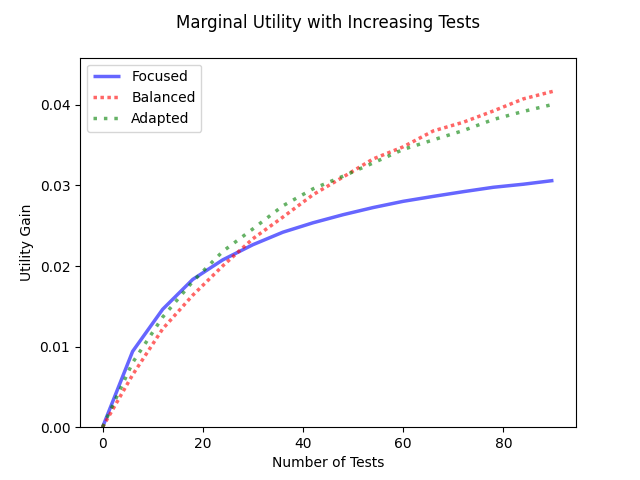
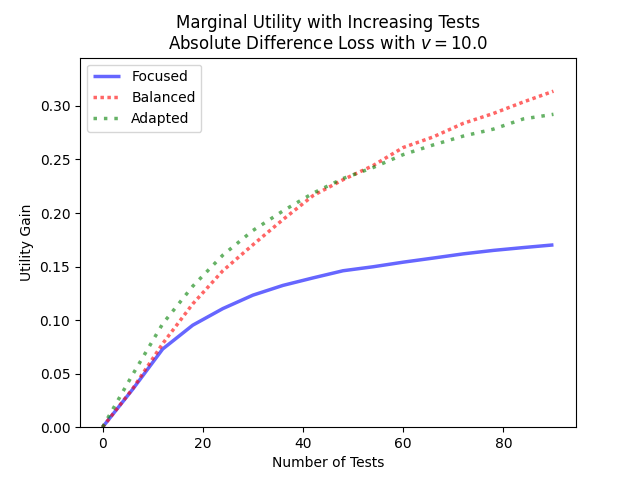
playing w example

diff --git a/bayesianexperimentation/bayesianexperimentaldesign.py b/bayesianexperimentation/bayesianexperimentaldesign.py
@@ -2109,10 +2109,41 @@ def exampleSCscratchForAlgDebug():
     return
 
 def exampleSupplyChainForPaper():
-    N = np.array([[6, 9], [10, 5], [2, 13]])
+
+
+    '''
+    1) N = np.array([[8, 7], [9, 6], [2, 13]])
+    Y = np.array([[3, 0], [4, 1], [0, 0]])
+
+    2) N = np.array([[10, 5], [9, 6], [2, 13]])
+    Y = np.array([[3, 0], [3, 2], [0, 0]]) DEF NOT
+
+    3) N = np.array([[10, 5], [11, 4], [2, 13]])
+    Y = np.array([[3, 0], [4, 1], [0, 0]]) DEF NOT
+
+    4) N = np.array([[5, 10], [8, 7], [3, 12]])
+    Y = np.array([[2, 0], [4, 1], [0, 0]])
+
+    5) N = np.array([[7, 8], [6, 4], [3, 12]])
+    Y = np.array([[3, 0], [3, 1], [0, 0]])
+
+    6) N = np.array([[6, 9], [5, 5], [3, 12]])
+    Y = np.array([[3, 0], [4, 1], [0, 0]]) GOOD ONE; USING THIS 12/30/22
+
+    7) N = np.array([[6, 9], [4, 6], [2, 13]])
+    Y = np.array([[3, 0], [2, 1], [0, 0]]) NOPE
+
+    8) N = np.array([[5, 10], [5, 5], [3, 12]])
+    Y = np.array([[2, 0], [4, 1], [0, 0]]) MAYBE
+
+    9) N = np.array([[8, 7], [5, 5], [3, 12]])
+    Y = np.array([[3, 0], [4, 1], [0, 0]])
+
+    '''
+    N = np.array([[6, 9], [5, 5], [3, 12]])
     Y = np.array([[3, 0], [4, 1], [0, 0]])
     (numTN, numSN) = N.shape
-    s, r = 1., 1.
+    s, r = 0.9, 0.95
     scDict = util.generateRandDataDict(numImp=numSN, numOut=numTN, diagSens=s, diagSpec=r,
                                        numSamples=0, dataType='Tracked', randSeed=2)
     scDict['diagSens'], scDict['diagSpec'] = s, r
@@ -2163,7 +2194,7 @@ def exampleSupplyChainForPaper():
          'numPostSamples': numdrawstouse})
     margUtilArr = GetMargUtilForDesigns([design1,design2,design3],scDictTemp, testMax, testInt, lossDict,
                                         utilDict, printUpdate=True)
-    plotMargUtil(margUtilArr, testMax, testInt, colors=['blue','red','green'],labels=['Focused', 'Balanced', 'Adapted'])
+    plotMargUtil(margUtilArr, testMax, testInt, colors=['blue','red','green'],labels=['Focused', 'Balanced', 'Adapted'],titleStr='Baseline')
     '''
     margUtilArr = np.array([[0.        , 0.01852929, 0.02953051, 0.03632656, 0.04097865,
         0.04483184, 0.04778626, 0.04974943, 0.05181481, 0.05342801,
@@ -2180,11 +2211,12 @@ def exampleSupplyChainForPaper():
     '''
 
     ### CHANGE LOSS PARAMETERS RUNS ###
-    lossDict['scoreDict'].update({'underEstWt':5.})
+    ### CHANGE SCORE
+    lossDict['scoreDict'].update({'underEstWt':0.1})
     margUtilArr = GetMargUtilForDesigns([design1, design2, design3], scDictTemp, testMax, testInt, lossDict,
                                         utilDict, printUpdate=True)
     plotMargUtil(margUtilArr, testMax, testInt, colors=['blue', 'red', 'green'],
-                 labels=['Focused', 'Balanced', 'Adapted'])
+                 labels=['Focused', 'Balanced', 'Adapted'],titleStr='Absolute Difference Loss with $v=0.1$')
     '''
     margUtilArr = np.array([[0.        , 0.03442348, 0.05774904, 0.07150046, 0.08239403,
         0.08999229, 0.09596104, 0.10124705, 0.10546559, 0.10948336,
@@ -2201,27 +2233,27 @@ def exampleSupplyChainForPaper():
      plotMargUtil(margUtilArr, testMax, testInt, colors=['blue', 'red', 'green'],
                  labels=['Focused', 'Balanced', 'Adapted'],titleStr='AbsDiff Loss with $v=5$')
     '''
-    ### CHANGE LOSS
-    lossDict['scoreDict'].update({'underEstWt': 0.2})
+    ### CHANGE SCORE
+    lossDict['scoreDict'].update({'underEstWt': 10})
     margUtilArr = GetMargUtilForDesigns([design1, design2, design3], scDictTemp, testMax, testInt, lossDict,
                                         utilDict, printUpdate=True)
     plotMargUtil(margUtilArr, testMax, testInt, colors=['blue', 'red', 'green'],
-                 labels=['Focused', 'Balanced', 'Adapted'])
+                 labels=['Focused', 'Balanced', 'Adapted'],titleStr='Absolute Difference Loss with $v=10.0$')
     '''
-    margUtilArr = np.array([[0.        , 0.0061618 , 0.00951152, 0.01180287, 0.01331707,
-        0.01460648, 0.01545818, 0.01624678, 0.01677136, 0.01742774,
-        0.01775878, 0.01828225, 0.01850621, 0.01876372, 0.01908667,
-        0.01940038],
-       [0.        , 0.00356379, 0.00630727, 0.00827012, 0.0103652 ,
-        0.01225727, 0.0139363 , 0.01513112, 0.01657184, 0.01757065,
-        0.01897108, 0.01961579, 0.02071898, 0.02133125, 0.02211464,
-        0.02278893],
-       [0.        , 0.00383605, 0.00643516, 0.0085795 , 0.01053073,
-        0.01211568, 0.0135415 , 0.014919  , 0.01598923, 0.01689425,
-        0.01784307, 0.01859931, 0.01919649, 0.01990698, 0.02082598,
-        0.02107902]])
+    margUtilArr = np.array([[0.        , 0.01177521, 0.01877912, 0.02330688, 0.02665558,
+        0.02885246, 0.03074545, 0.03212287, 0.03346784, 0.03450285,
+        0.03534546, 0.03624796, 0.03685654, 0.03748401, 0.03815144,
+        0.03858482],
+       [0.        , 0.00750847, 0.0139503 , 0.01925716, 0.02395486,
+        0.0279566 , 0.0317523 , 0.034473  , 0.0371308 , 0.04005024,
+        0.04254084, 0.04450467, 0.04636385, 0.04797034, 0.04966313,
+        0.0513441 ],
+       [0.        , 0.00848525, 0.01493633, 0.02068894, 0.02523883,
+        0.02866932, 0.0318476 , 0.03418757, 0.0368088 , 0.03894729,
+        0.04058064, 0.04239743, 0.04367676, 0.04536978, 0.04679029,
+        0.04789473]])
     plotMargUtil(margUtilArr, testMax, testInt, colors=['blue', 'red', 'green'],
-                 labels=['Focused', 'Balanced', 'Adapted'],titleStr='AbsDiff Loss with $v=0.1$')
+                 labels=['Focused', 'Balanced', 'Adapted'],titleStr='Absolute Difference Loss with $v=0.2$')
     '''
     ### CHANGE RISK
     lossDict['scoreDict'].update({'underEstWt': 1.})
@@ -2256,7 +2288,18 @@ def exampleSupplyChainForPaper():
     print('Changing risk...')
     print(margUtilArr)
     '''
-        margUtilArr = np.
+        margUtilArr = np.array([[0.        , 0.01884137, 0.02960931, 0.0366962 , 0.04163603,
+        0.04559034, 0.04837688, 0.05079548, 0.0528123 , 0.05428856,
+        0.05561463, 0.05708946, 0.05809861, 0.05902985, 0.06000696,
+        0.06064484],
+       [0.        , 0.0139597 , 0.02502037, 0.03363636, 0.04132414,
+        0.04816916, 0.05376846, 0.05907572, 0.06363216, 0.06836027,
+        0.07240748, 0.07611202, 0.07871574, 0.08125504, 0.08548939,
+        0.08712606],
+       [0.        , 0.01601467, 0.02719646, 0.0359439 , 0.04226197,
+        0.04882165, 0.05420608, 0.05812892, 0.06207409, 0.06543135,
+        0.06778542, 0.07157584, 0.07330403, 0.07574708, 0.07802823,
+        0.07991837]])
   plotMargUtil(margUtilArr, testMax, testInt, colors=['blue', 'red', 'green'],
                  labels=['Focused', 'Balanced', 'Adapted'],titleStr='Check risk with $m=0.7,l=0.2$')
     '''
